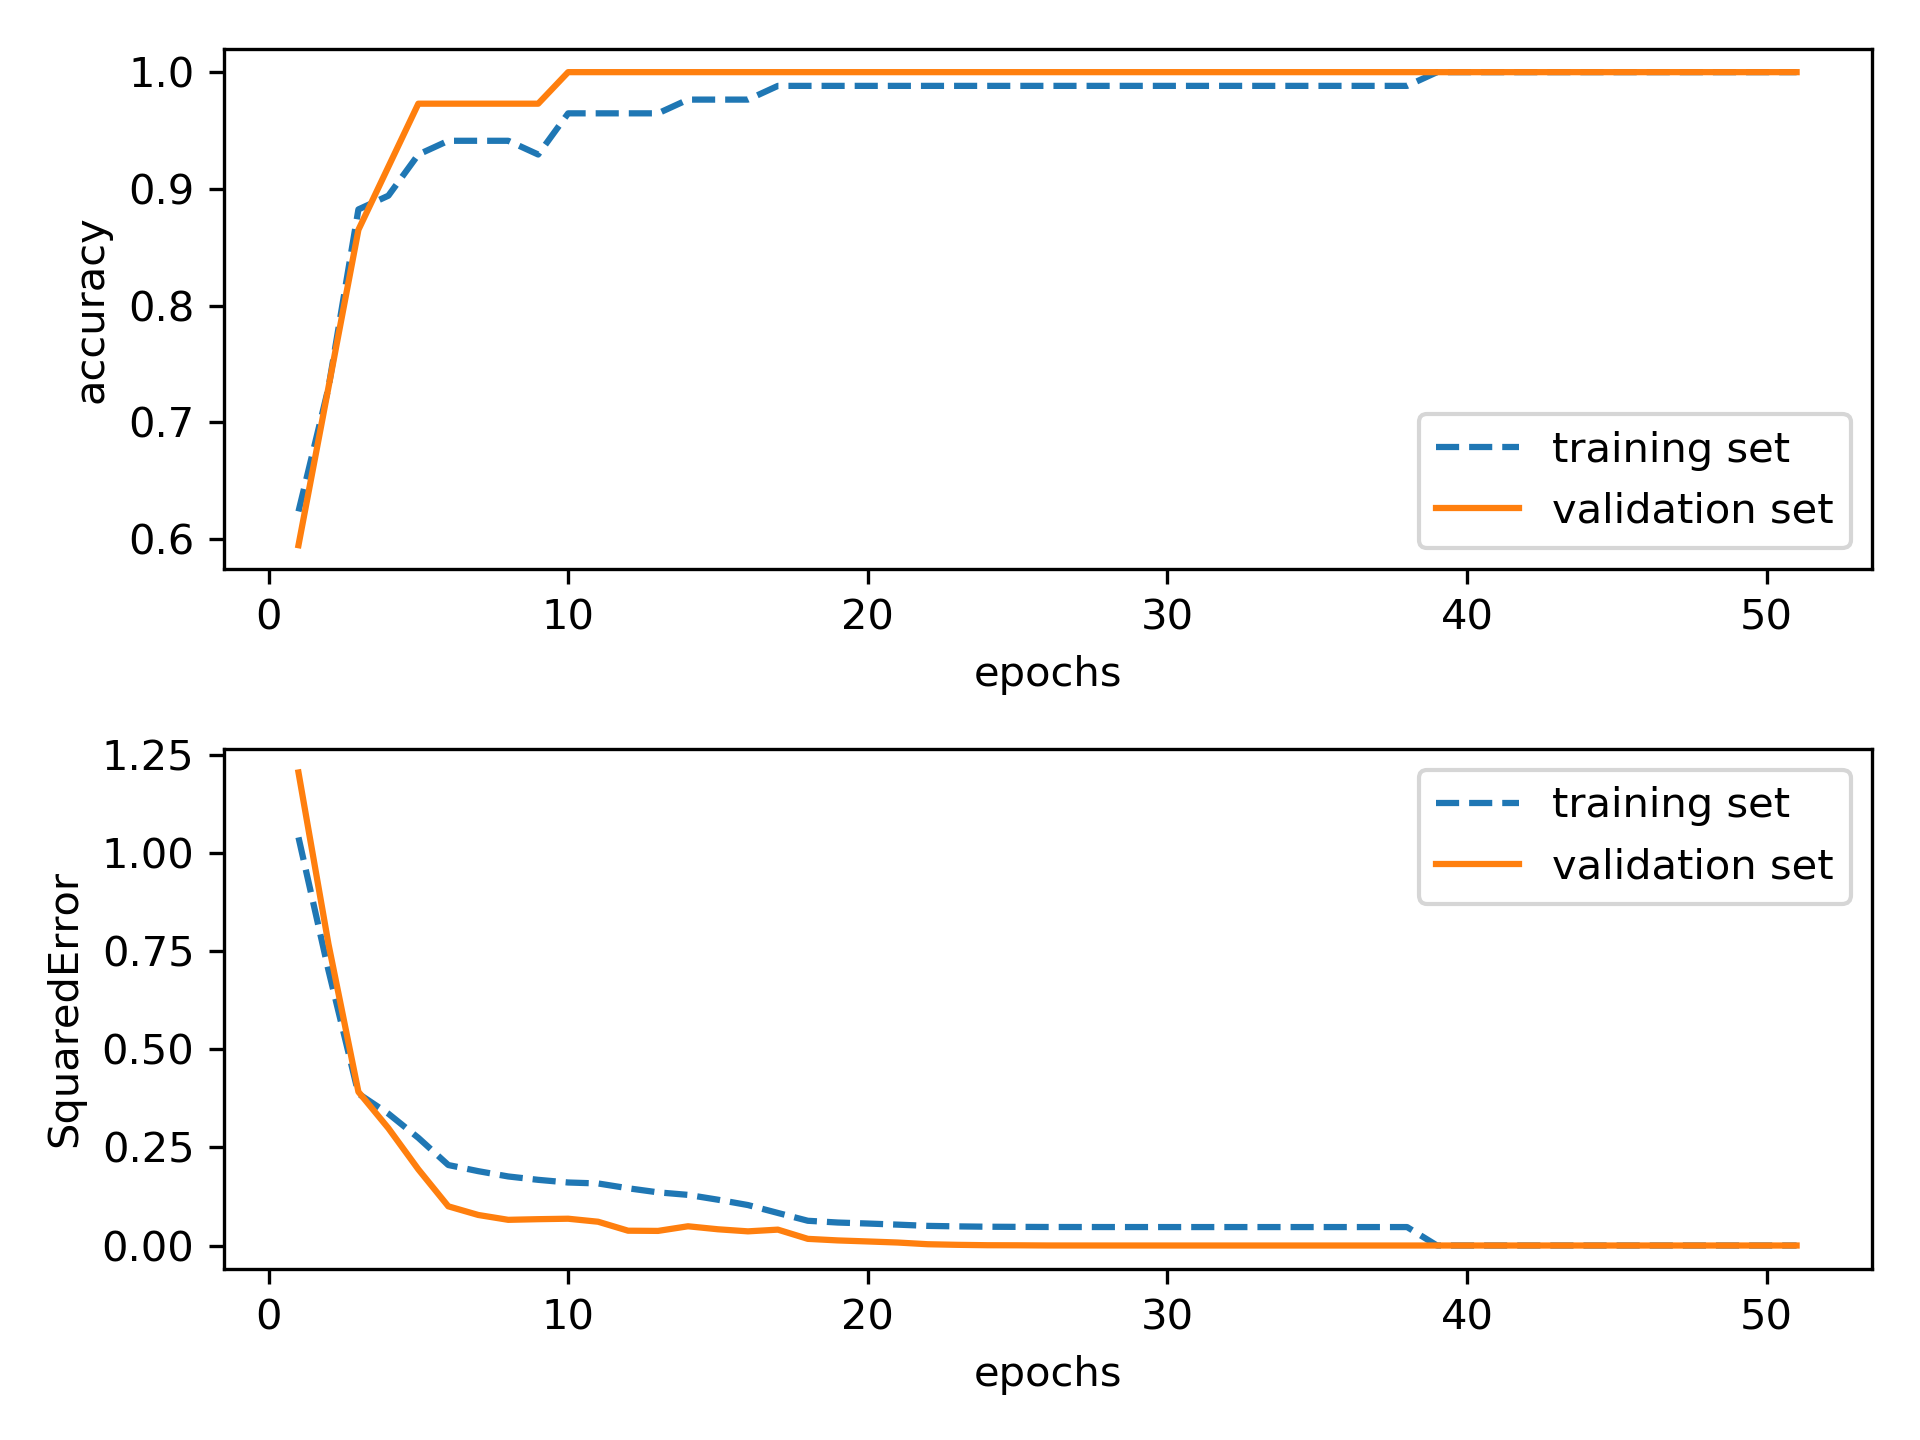
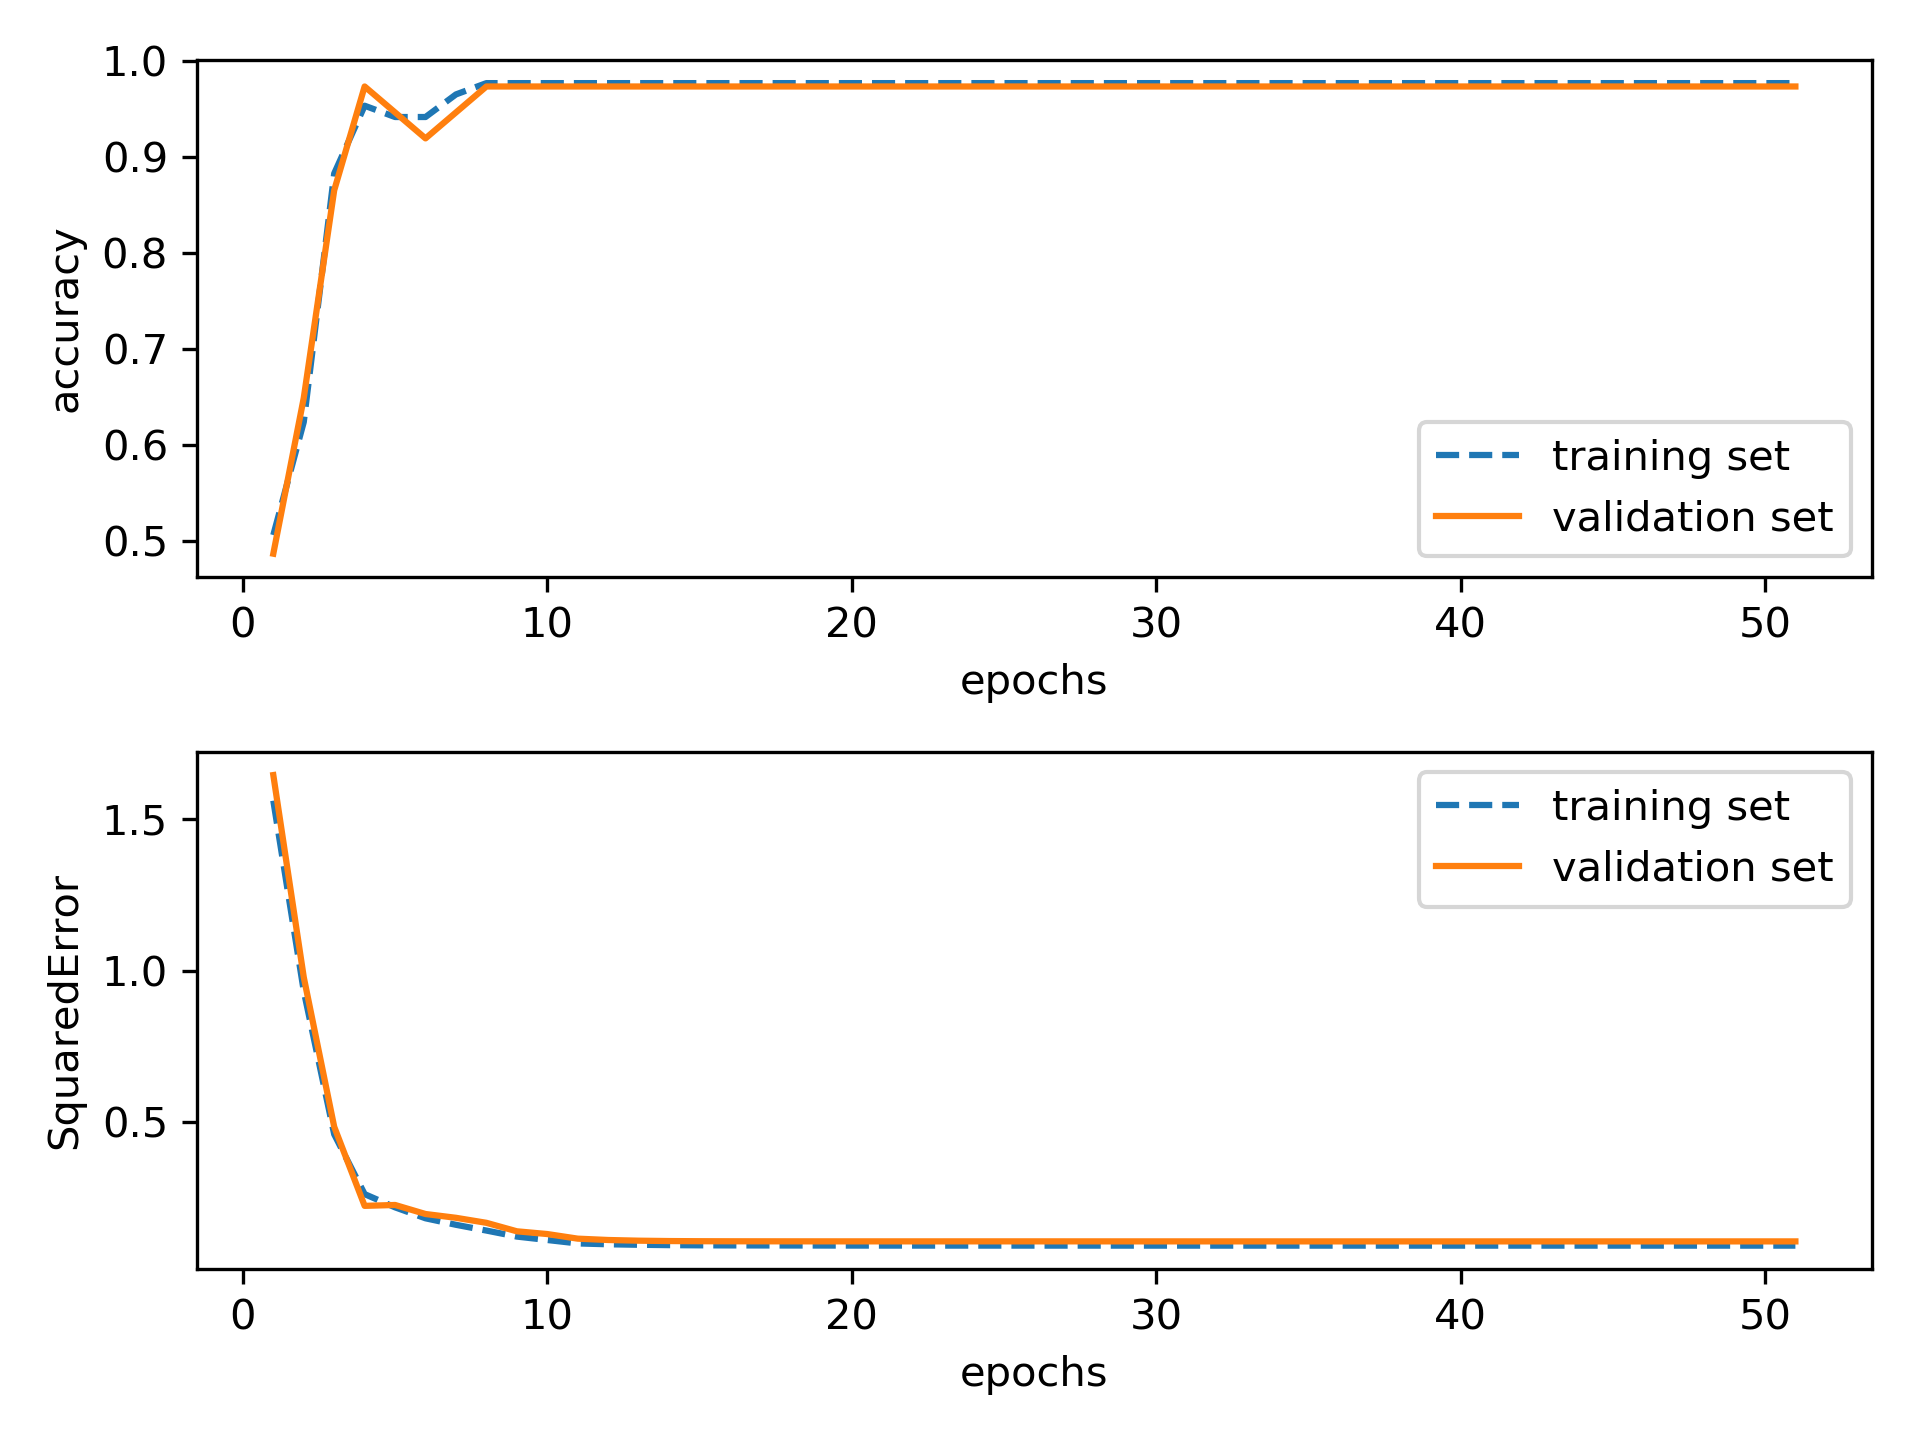
added todo

diff --git a/src/Neural_network.py b/src/Neural_network.py
@@ -121,6 +121,7 @@ class Network:
 
         # 4. compute network weights update
         gradient_weights = self.compute_gradient(np.asarray(delta_vectors))
+        # TODO add here regularization gradient 2 * lambda * w_ji
 
         # 5 report loss and misclassification count
         weights = self.get_weights_as_vector()
@@ -309,7 +310,7 @@ class Network:
             gradient = np.append(gradient,tmp)
         return gradient
 
-    def update_weights_CM(self, delta,regularization):
+    def update_weights_CM(self, delta, regularization):
         """
         update network weights
         :param delta: weight update p_k = - H * nabla f
@@ -329,12 +330,12 @@ class Network:
                 weights_len = len(current_neuron_weights)
                 tmp = delta[start:start + weights_len]
                 start += weights_len
-                #create "regularization vector"
+                # create "regularization vector"
                 reg = np.zeros(weights_len)
                 reg.fill(regularization)
-                reg[-1]=0
-                # update weigths
-                current_neuron_weights += tmp
+                reg[-1] = 0
+                # update weights
+                current_neuron_weights += tmp - 2 * np.multiply(reg, current_neuron_weights)
 
                 # append to x_{k+1} after updating
                 x_new = np.append(x_new, current_neuron_weights)
@@ -421,7 +422,8 @@ class Network:
             delta = p * alpha
 
             # 4. update weights using x_{k+1} = x_{k} + alpha_{k} * p_k
-            x_new = self.update_weights_CM(delta,regularization)
+            # TODO delete alpha*regularization once backprop computes also regularization gradient
+            x_new = self.update_weights_CM(delta, alpha * regularization)
 
             # 5. compute new gradient
             gradient_new, loss, miss = self.calculate_gradient(data, targets, lossObject, regularization)
@@ -525,7 +527,7 @@ class Network:
         for epoch in range(epochs):
 
             # calculate central matrix {H_k}^0
-            if epoch==0:
+            if True:#epoch==0: # TODO uncomment when unit test for bfgs==lbfgs
                 H = np.identity(gradient_old.shape[0])
             else:
                 num = np.dot(s_list[-1],y_list[-1])
@@ -541,7 +543,8 @@ class Network:
             alpha = self.armijo_wolfe_line_search(alpha_0, c_1, c_2, data, gradient_old, loss, lossObject, p, targets, theta, regularization)
             # updating weights and compute x_k+1 = x_k + a_k*p_k
             delta = alpha * p
-            x_new = self.update_weights_CM(delta, regularization=0)
+            # TODO delete alpha*regularization once backprop computes also regularization gradient
+            x_new = self.update_weights_CM(delta, alpha * regularization)
             gradient_new, loss, miss = self.calculate_gradient(data,targets,lossObject, regularization)
 
             # append losses
@@ -655,7 +658,7 @@ class Network:
         return alpha_star
 
     def zoom(self, alpha_low, alpha_high, p, phi_0, phi_p_0, c_1, c_2, data, targets, lossObject, regularization):
-        max_feval = 100
+        max_feval = 300
 
         sfgrd = 0.01
 
@@ -757,7 +760,8 @@ class Network:
         # creates a copy of weights
         actual_weights = copy.deepcopy(self.layers)
         # compute x_{k+1} = x_k + alpha * p_k, and evaluates phi(alpha_i) = loss
-        self.update_weights_CM(alpha_i * p,regularization)
+        # TODO delete alpha*regularization once backprop computes also regularization gradient
+        self.update_weights_CM(alpha_i * p, alpha_i * regularization)
         gradient_alpha, loss_alpha, _ = self.calculate_gradient(data, targets, lossObject, regularization)
         # restore original weights
         self.layers = actual_weights

diff --git a/src/CM.py b/src/CM.py
@@ -29,13 +29,16 @@ def main():
     c_2 = [0.9]
     theta = [0.9]
     reguralization = [0.01]
-    m = [10]
+    m = [40]
     epochs = 50
     lossObject = SquaredError("tangentH")
     parameter = grid_search_CM_parameter(c_1,c_2,theta,reguralization,m,epochs,arch,neuronsType)
     # perform grid search
-    grid_search_CM(parameter,lossObject,training_patterns,training_labels,validation_patterns,validation_labels,
-                   n_trials=1,save_in_dir="../temp/reg-")
+    #grid_search_CM(parameter,lossObject,training_patterns,training_labels,validation_patterns,validation_labels,
+    #               n_trials=1,save_in_dir="../temp/no-reg-")
+
+    network.trainBFGS(training_patterns, training_labels, validation_patterns, validation_labels,
+                      theta=0.9, c_1=0.0001, c_2=0.9, lossObject=lossObject, regularization=0.01, epochs=100)
 
 
 if __name__ == '__main__':
